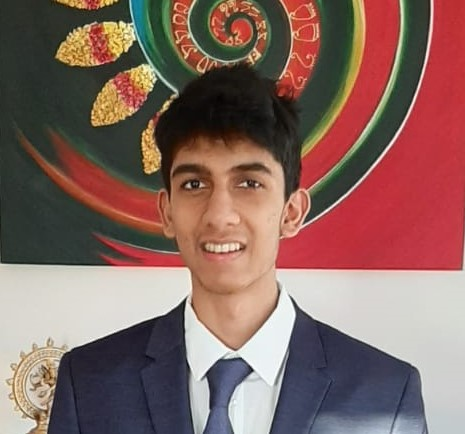
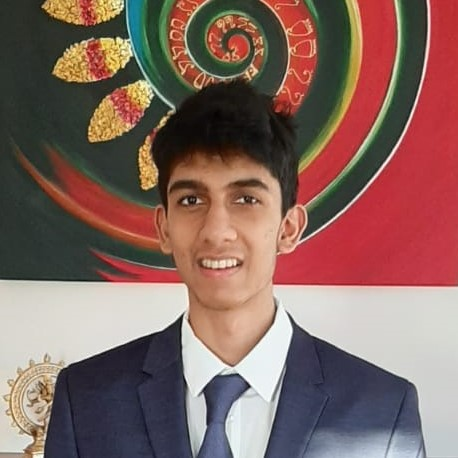
Remake

diff --git a/board.html b/board.html
@@ -14,7 +14,7 @@
     <link rel="stylesheet" href="https://stackpath.bootstrapcdn.com/bootstrap/4.5.2/css/bootstrap.min.css" integrity="sha384-JcKb8q3iqJ61gNV9KGb8thSsNjpSL0n8PARn9HuZOnIxN0hoP+VmmDGMN5t9UJ0Z" crossorigin="anonymous">
     <link href="fonts/css/all.css" rel="stylesheet"> <!--load all styles -->
     <link rel="stylesheet" href="index.css"/>
-
+    <link rel="stylesheet" href="CSS/board.css"/>
     <script type="text/javascript" src="script.js"></script>
 
     <title>BME-FBLA</title>
@@ -58,40 +58,268 @@
           <p class="lead">Board Members & Committee Members</p>
         </div>
       </div>
-      <div class="container">
-        <div class="row">
-          <div class="col-sm-12 col-lg-6">
-            <div class="card">
-              <h5 class="card-header">Founder & Director</h5>
-              <div class="card-body">
-                <div class="d-inline-flex">
-                  <div class="">
-                    <h5 class="card-title">Siddharth Pandey</h5>
-                    <p class="card-text">Siddharth Pandey is the chairman of the BME FBLA committee at LHS FBLA.
-                    As director he works in all parts of BME FBLA. With a primary focus on generating partnerships, expanding
-                    outreach as well as the website and YT Channel.</p>
-                    <a href="#" class="btn btn-primary">Go somewhere</a>
-                  </div>
-                  <div class="photo">
-                    <img src="img/board-photo/siddharth.pandey.jpg" rel="Siddharth Pandey"/>
-                  </div>
-                </div>
-              </div>
-            </div>
-          </div>
-
-        </div>
-
-      </div>
-      <!--
       <div>
         <p class="centered-paragraph">Board Positions Are Coming Soon! <br>
           To Apply For A Board Position You Must Already Be A Member. <br>
           <a href="membership.html">Here's</a> How You Can Join The Team!
         </p>
       </div>
+      <div class="container">
+        <div class="row">
+          <!--First card-->
+          <div class="col-sm-12 col-lg-6">
+            <div class="card h-100">
+              <h5 class="card-header">Founder & Director</h5>
+              <div class="card-body">
+                <div class="d-inline-flex">
+                  <div>
+                    <h5 class="card-title">Siddharth Pandey</h5>
+                    <p class="card-text">Siddharth Pandey is the chairman of the BME FBLA committee at LHS FBLA.
+                    As director he works in all parts of BME FBLA. With a primary focus on generating partnerships, expanding
+                    outreach as well as the website and YT Channel.</p>
+                  </div>
+                  <div class="photo">
+                    <div data-bs-toggle="tooltip" data-bs-placement="top" title="LinkedIn">
+                      <a href="https://www.linkedin.com/in/siddharth-pandey-59a619202/" target="_blank">
+                        <img src="img/board-photo/siddharth-pandey.jpg" rel="Siddharth Pandey"/>
+                      </a>
+                    </div>
+                  </div>
+                </div>
+              </div>
+            </div>
+          </div>
+          <!--Second card-->
+          <div class="col-sm-12 col-lg-6">
+            <div class="card h-100">
+              <h5 class="card-header">Social Media Manager</h5>
+              <div class="card-body">
+                <div class="d-inline-flex">
+                  <div>
+                    <h5 class="card-title">John Doe</h5>
+                    <p class="card-text">Siddharth Pandey is the chairman of the BME FBLA committee at LHS FBLA.
+                    As director he works in all parts of BME FBLA. With a primary focus on generating partnerships, expanding
+                    outreach as well as the website and YT Channel.</p>
+                  </div>
+                  <div class="photo">
+                    <div data-bs-toggle="tooltip" data-bs-placement="top" title="LinkedIn">
+                      <a href="https://www.linkedin.com/in/siddharth-pandey-59a619202/" target="_blank">
+                        <img src="img/board-photo/unknown.jpg" rel="Siddharth Pandey"/>
+                      </a>
+                    </div>
+                  </div>
+                </div>
+              </div>
+            </div>
+          </div>
+        </div>
+        <div class="row">
+          <!--First card-->
+          <div class="col-sm-12 col-lg-6">
+            <div class="card h-100">
+              <h5 class="card-header">Board Liaison</h5>
+              <div class="card-body">
+                <div class="d-inline-flex">
+                  <div>
+                    <h5 class="card-title">John Doe</h5>
+                    <p class="card-text">Siddharth Pandey is the chairman of the BME FBLA committee at LHS FBLA.
+                    As director he works in all parts of BME FBLA. With a primary focus on generating partnerships, expanding
+                    outreach as well as the website and YT Channel.</p>
+                  </div>
+                  <div class="photo">
+                    <div data-bs-toggle="tooltip" data-bs-placement="top" title="LinkedIn">
+                      <a href="https://www.linkedin.com/in/siddharth-pandey-59a619202/" target="_blank">
+                        <img src="img/board-photo/unknown.jpg" rel="Siddharth Pandey"/>
+                      </a>
+                    </div>
+                  </div>
+                </div>
+              </div>
+            </div>
+          </div>
+          <!--Second card-->
+          <div class="col-sm-12 col-lg-6">
+            <div class="card h-100">
+              <h5 class="card-header">Board Liaison</h5>
+              <div class="card-body">
+                <div class="d-inline-flex">
+                  <div>
+                    <h5 class="card-title">John Doe</h5>
+                    <p class="card-text">Siddharth Pandey is the chairman of the BME FBLA committee at LHS FBLA.
+                    As director he works in all parts of BME FBLA. With a primary focus on generating partnerships, expanding
+                    outreach as well as the website and YT Channel.</p>
+                  </div>
+                  <div class="photo">
+                    <div data-bs-toggle="tooltip" data-bs-placement="top" title="LinkedIn">
+                      <a href="https://www.linkedin.com/in/siddharth-pandey-59a619202/" target="_blank">
+                        <img src="img/board-photo/unknown.jpg" rel="Siddharth Pandey"/>
+                      </a>
+                    </div>
+                  </div>
+                </div>
+              </div>
+            </div>
+          </div>
+        </div>
+        <div class="row">
+          <!--First card-->
+          <div class="col-sm-12 col-lg-6">
+            <div class="card h-100">
+              <h5 class="card-header">Vice President Of Membership</h5>
+              <div class="card-body">
+                <div class="d-inline-flex">
+                  <div>
+                    <h5 class="card-title">Siddharth Pandey</h5>
+                    <p class="card-text">Siddharth Pandey is the chairman of the BME FBLA committee at LHS FBLA.
+                    As director he works in all parts of BME FBLA. With a primary focus on generating partnerships, expanding
+                    outreach as well as the website and YT Channel.</p>
+                  </div>
+                  <div class="photo">
+                    <div data-bs-toggle="tooltip" data-bs-placement="top" title="LinkedIn">
+                      <a href="https://www.linkedin.com/in/siddharth-pandey-59a619202/" target="_blank">
+                        <img src="img/board-photo/unknown.jpg" rel="Siddharth Pandey"/>
+                      </a>
+                    </div>
+                  </div>
+                </div>
+              </div>
+            </div>
+          </div>
+          <!--Second card-->
+          <div class="col-sm-12 col-lg-6">
+            <div class="card h-100">
+              <h5 class="card-header">Head Of Business Development</h5>
+              <div class="card-body">
+                <div class="d-inline-flex">
+                  <div>
+                    <h5 class="card-title">John Doe</h5>
+                    <p class="card-text">Siddharth Pandey is the chairman of the BME FBLA committee at LHS FBLA.
+                    As director he works in all parts of BME FBLA. With a primary focus on generating partnerships, expanding
+                    outreach as well as the website and YT Channel.</p>
+                  </div>
+                  <div class="photo">
+                    <div data-bs-toggle="tooltip" data-bs-placement="top" title="LinkedIn">
+                      <a href="https://www.linkedin.com/in/siddharth-pandey-59a619202/" target="_blank">
+                        <img src="img/board-photo/unknown.jpg" rel="Siddharth Pandey"/>
+                      </a>
+                    </div>
+                  </div>
+                </div>
+              </div>
+            </div>
+          </div>
+        </div>
+        <!--Reprsentative Section-->
+        <div class="new-topic-section">
+          <h3>Representatives</h3>
+          <small class="text-muted">Students that have worked to get their chapter connected with BME FBLA</small>
+        </div>
+        <!--Row-->
+        <div class="row">
+          <!--First card-->
+          <div class="col-sm-12 col-lg-6">
+            <div class="card h-100">
+              <h5 class="card-header">Vice President Of Membership</h5>
+              <div class="card-body">
+                <div class="d-inline-flex">
+                  <div>
+                    <h5 class="card-title">Siddharth Pandey</h5>
+                    <p class="card-text">Siddharth Pandey is the chairman of the BME FBLA committee at LHS FBLA.
+                    As director he works in all parts of BME FBLA. With a primary focus on generating partnerships, expanding
+                    outreach as well as the website and YT Channel.</p>
+                  </div>
+                  <div class="photo">
+                    <div data-bs-toggle="tooltip" data-bs-placement="top" title="LinkedIn">
+                      <a href="https://www.linkedin.com/in/siddharth-pandey-59a619202/" target="_blank">
+                        <img src="img/board-photo/unknown.jpg" rel="Siddharth Pandey"/>
+                      </a>
+                    </div>
+                  </div>
+                </div>
+              </div>
+            </div>
+          </div>
+          <!--Second card-->
+          <div class="col-sm-12 col-lg-6">
+            <div class="card h-100">
+              <h5 class="card-header">Head Of Business Development</h5>
+              <div class="card-body">
+                <div class="d-inline-flex">
+                  <div>
+                    <h5 class="card-title">John Doe</h5>
+                    <p class="card-text">Siddharth Pandey is the chairman of the BME FBLA committee at LHS FBLA.
+                    As director he works in all parts of BME FBLA. With a primary focus on generating partnerships, expanding
+                    outreach as well as the website and YT Channel.</p>
+                  </div>
+                  <div class="photo">
+                    <div data-bs-toggle="tooltip" data-bs-placement="top" title="LinkedIn">
+                      <a href="https://www.linkedin.com/in/siddharth-pandey-59a619202/" target="_blank">
+                        <img src="img/board-photo/unknown.jpg" rel="Siddharth Pandey"/>
+                      </a>
+                    </div>
+                  </div>
+                </div>
+              </div>
+            </div>
+          </div>
+        </div>
+        <!--Committee Section-->
+        <div class="new-topic-section">
+          <h3>Committee</h3>
+          <small class="text-muted">Our Dedicated, Hardworking Committee Members</small>
+        </div>
+        <!--Row-->
+        <div class="row">
+          <!--First card-->
+          <div class="col-sm-12 col-lg-6">
+            <div class="card h-100">
+              <h5 class="card-header">Vice President Of Membership</h5>
+              <div class="card-body">
+                <div class="d-inline-flex">
+                  <div>
+                    <h5 class="card-title">Siddharth Pandey</h5>
+                    <p class="card-text">Siddharth Pandey is the chairman of the BME FBLA committee at LHS FBLA.
+                    As director he works in all parts of BME FBLA. With a primary focus on generating partnerships, expanding
+                    outreach as well as the website and YT Channel.</p>
+                  </div>
+                  <div class="photo">
+                    <div data-bs-toggle="tooltip" data-bs-placement="top" title="LinkedIn">
+                      <a href="https://www.linkedin.com/in/siddharth-pandey-59a619202/" target="_blank">
+                        <img src="img/board-photo/unknown.jpg" rel="Siddharth Pandey"/>
+                      </a>
+                    </div>
+                  </div>
+                </div>
+              </div>
+            </div>
+          </div>
+          <!--Second card-->
+          <div class="col-sm-12 col-lg-6">
+            <div class="card h-100">
+              <h5 class="card-header">Head Of Business Development</h5>
+              <div class="card-body">
+                <div class="d-inline-flex">
+                  <div>
+                    <h5 class="card-title">John Doe</h5>
+                    <p class="card-text">Siddharth Pandey is the chairman of the BME FBLA committee at LHS FBLA.
+                    As director he works in all parts of BME FBLA. With a primary focus on generating partnerships, expanding
+                    outreach as well as the website and YT Channel.</p>
+                  </div>
+                  <div class="photo">
+                    <div data-bs-toggle="tooltip" data-bs-placement="top" title="LinkedIn">
+                      <a href="https://www.linkedin.com/in/siddharth-pandey-59a619202/" target="_blank">
+                        <img src="img/board-photo/unknown.jpg" rel="Siddharth Pandey"/>
+                      </a>
+                    </div>
+                  </div>
+                </div>
+              </div>
+            </div>
+          </div>
+        </div>
+      </div>
     -->
-  </div>
+    </div>
     <!-- Footer -->
     <footer class="footer">
       <div class="container-fluid d-flex main">

diff --git a/script.js b/script.js
@@ -54,9 +54,10 @@ window.addEventListener('DOMContentLoaded', (event) => {
   console.log(wrapper.offsetHeight);
 
   //Enable Tooltips
-  $(function () {
-    $('[data-toggle="tooltip"]').tooltip()
-  });
+  var tooltipTriggerList = [].slice.call(document.querySelectorAll('[data-bs-toggle="tooltip"]'))
+    var tooltipList = tooltipTriggerList.map(function (tooltipTriggerEl) {
+      return new bootstrap.Tooltip(tooltipTriggerEl)
+  })
 
   //Enable Modals
   $('#myModal').on('shown.bs.modal', function () {

diff --git a/index.css b/index.css
@@ -81,6 +81,11 @@ ul {
   transform: translate(-50%, -50%);
 }
 
+.new-topic-section {
+  padding-top: 1rem;
+  border-top: 2px solid #E9ECEF;
+  margin-bottom: 2rem;
+}
 
 /* Collapsible */
 
@@ -231,13 +236,13 @@ ul {
     font-size: 1.5rem;
   }
 
+  .awards {
+    margin-bottom: 7rem;
+  }
+
   .container .card-deck {
     display: flex;
     justify-content: center;
-  }
-
-  .container .card-deck:nth-child(1) {
-    margin-top: 7rem;
   }
 
   .container .card-deck .card {

diff --git a/CSS/board.css b/CSS/board.css
@@ -1,0 +1,23 @@
+@media only screen and (min-width: 360px) {
+  .container {
+    display: none;
+  }
+  .card .card-body .photo {
+    margin-left: 1rem;
+    margin-top: 1rem;
+  }
+  .card .card-body .photo img {
+    width: 120px;
+    height: 120px;
+    border-radius: 50%;
+  }
+
+  .card .card-body .photo img:hover {
+    cursor: pointer;
+    transition: 50ms;
+    border: solid 3px #00529B;
+  }
+  .container .row .col-sm-12 {
+    margin-bottom: 2rem;
+  }
+}

diff --git a/membership.html b/membership.html
@@ -59,7 +59,7 @@
     <div class="jumbotron jumbotron-fluid">
       <div class="container">
         <h1 class="display-1">Want To Join BME FBLA?</h1>
-        <p class="lead">You Can Become A Member In 4 Simple Steps</p>
+        <p class="lead">Become A Member In 4 Simple Steps</p>
       </div>
     </div>
     <!-- Cards -->
